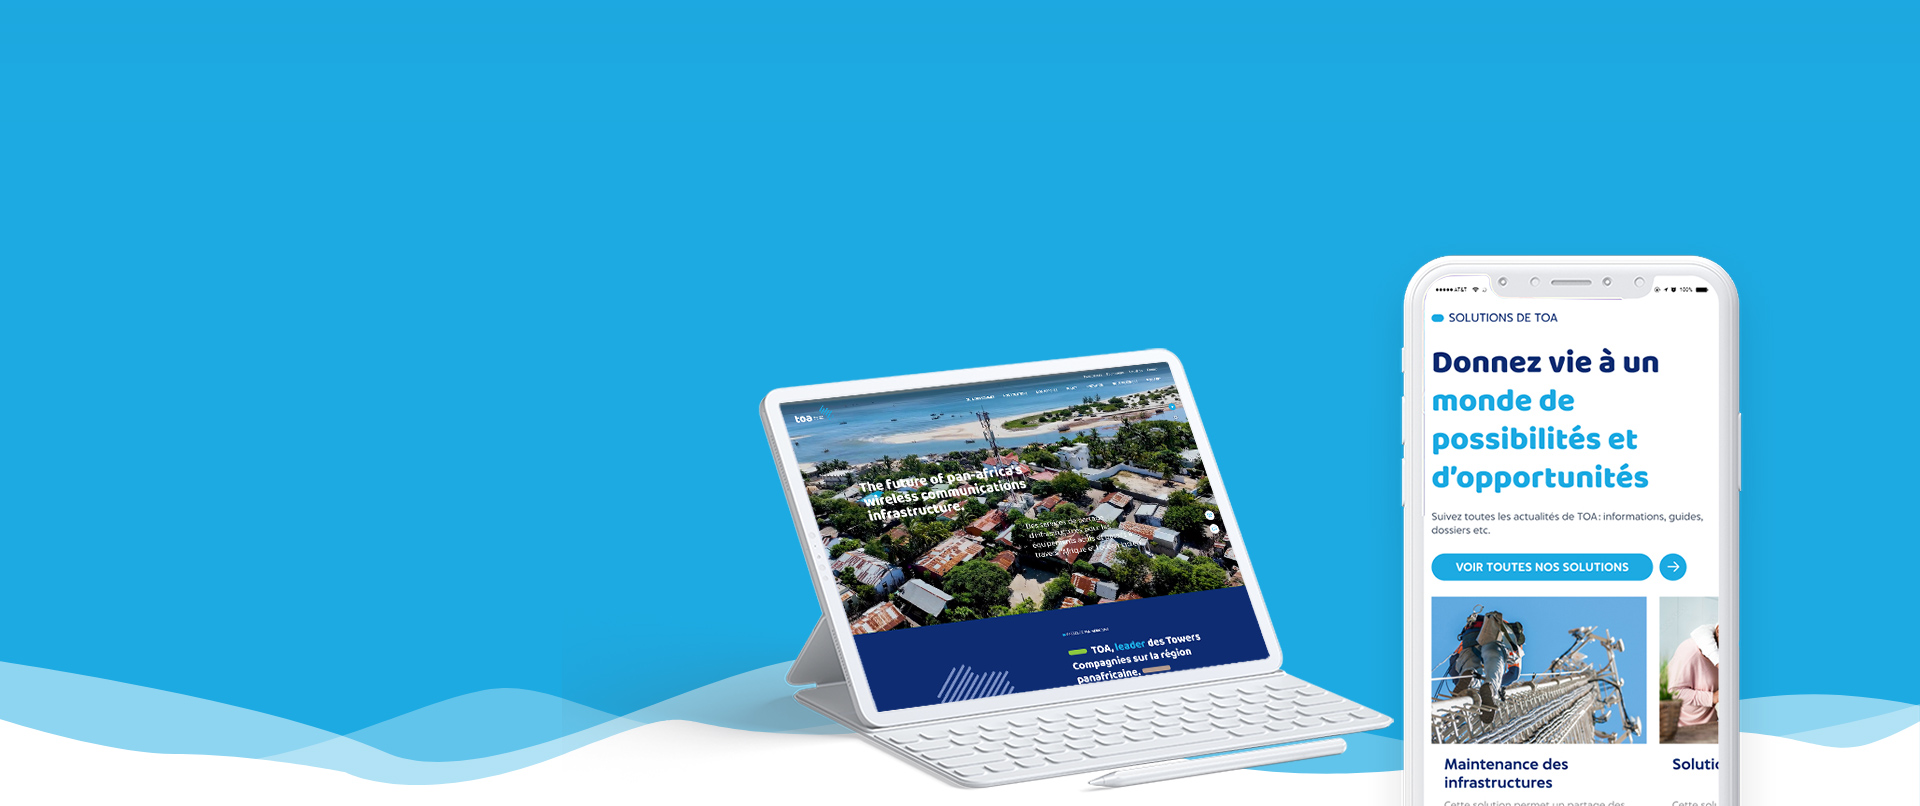
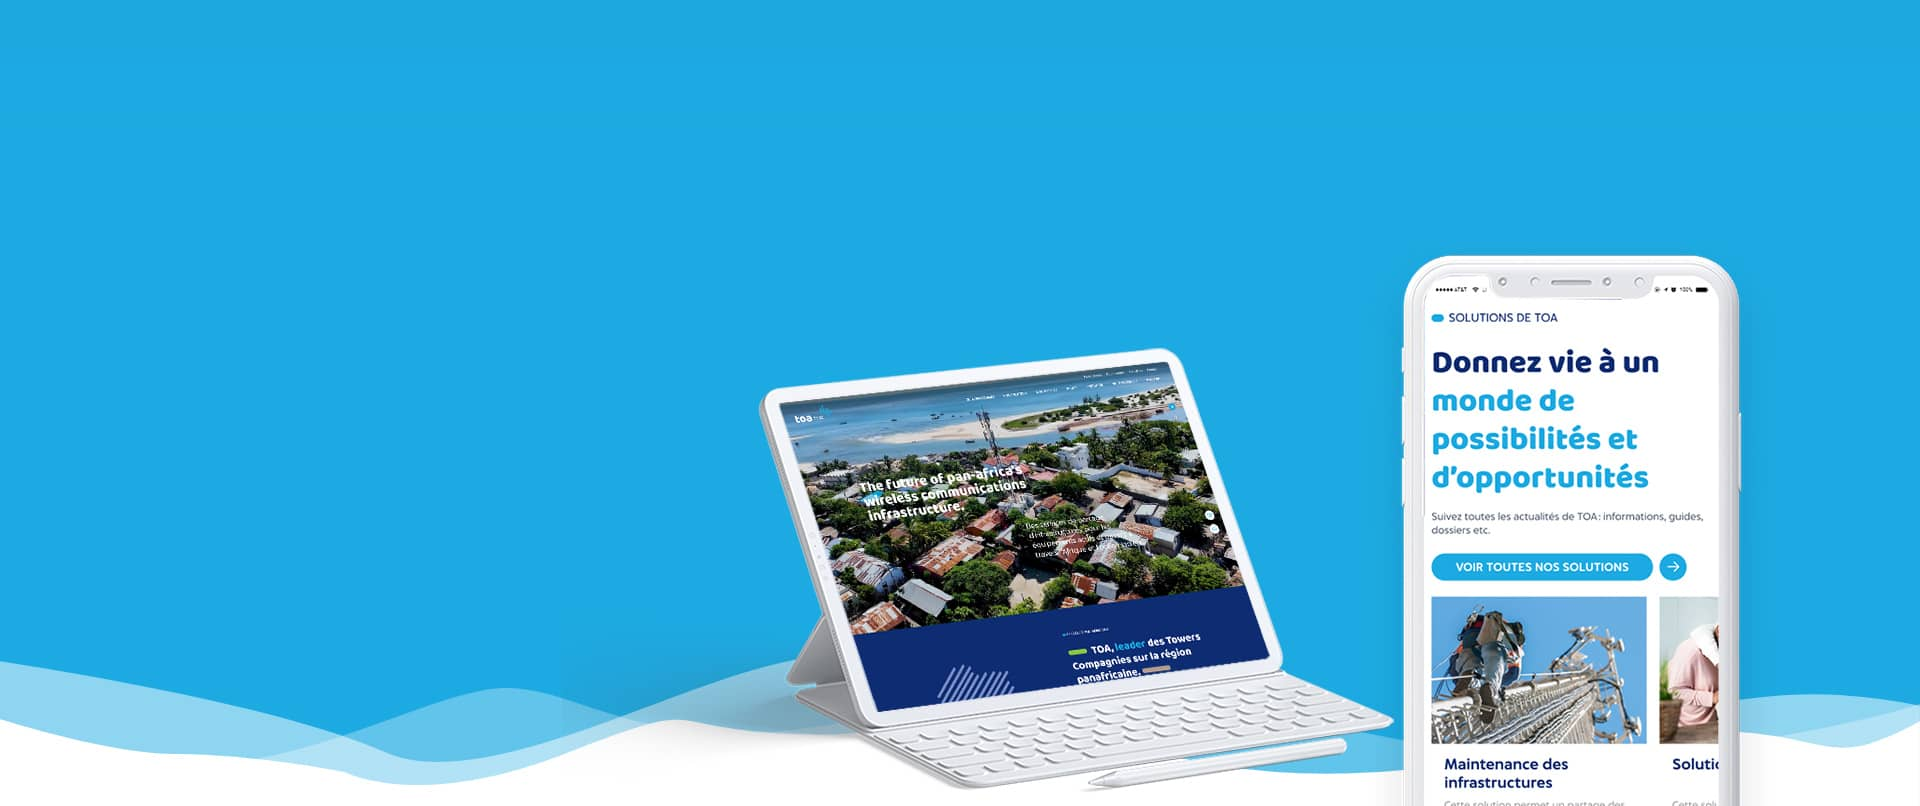
MAJ content projet + content general

diff --git a/src/app/page.tsx b/src/app/page.tsx
@@ -41,7 +41,7 @@ export default function Home() {
     $desc: `${t('banner.description')}`,
     $btn: `${t('banner.textButton')}`,
     $linkBtn: '/#projects',
-    $srcImage: '/images/banner/banner.jpg',
+    $srcImage: '/images/banner/banner-2023.jpg',
     $width: 1200,
     $height: 600,
     $altImage: `${t('banner.altImage')}`
@@ -104,8 +104,8 @@ export default function Home() {
     $title: `${t('projet.1.title')}`,
     $desc: `${t('projet.1.desc')}`,
     $btn: `${t('projet.1.valBtn')}`,
-    $linkBtn: 'https://www.stellar-ix.com/',
-    $srcImage: '/images/project/project1.jpg',
+    $linkBtn: 'https://www.firstimmo.mg/',
+    $srcImage: '/images/project/fimmo.jpg',
     $width: 1600,
     $height: 941,
     $altImage: `${t('projet.1.altImage')}`
@@ -115,8 +115,8 @@ export default function Home() {
     $title: `${t('projet.2.title')}`,
     $desc: `${t('projet.2.desc')}`,
     $btn: `${t('projet.2.valBtn')}`,
-    $linkBtn: 'https://harmony-saintouen.com/fr',
-    $srcImage: '/images/project/project2.jpg',
+    $linkBtn: 'https://www.sanko-africa.com/',
+    $srcImage: '/images/project/sanko.jpg',
     $width: 1600,
     $height: 941,
     $altImage: `${t('projet.2.altImage')}`
@@ -127,7 +127,7 @@ export default function Home() {
     $desc: `${t('projet.3.desc')}`,
     $btn: `${t('projet.3.valBtn')}`,
     $linkBtn: 'https://towercoofafrica.com/',
-    $srcImage: '/images/project/project3.jpg',
+    $srcImage: '/images/project/toa.jpg',
     $width: 1600,
     $height: 941,
     $altImage: `${t('projet.3.altImage')}`

diff --git a/src/components/project/project.scss b/src/components/project/project.scss
@@ -15,10 +15,7 @@
     }
     .project-col{
         &:last-child{
-            padding-top: 75px;
-            @include max(1200px){
-                padding-top: 40px;
-            }
+            padding-top: 25px;
             @include max(768px){
                 padding-top: 20px;
             }
@@ -26,5 +23,6 @@
     }
     .project-img{
         mix-blend-mode: multiply;
+        border-radius: 20px;
     }
 }

diff --git a/src/components/banner/banner.scss b/src/components/banner/banner.scss
@@ -19,6 +19,7 @@
         left: 50%;
         transform: translate(-50%, -50%);
         text-align: center;
+        text-shadow: 0px 4px 4px rgba(0, 0, 0, 0.5);
         @include max(575px){
             min-width: 320px;
         }
